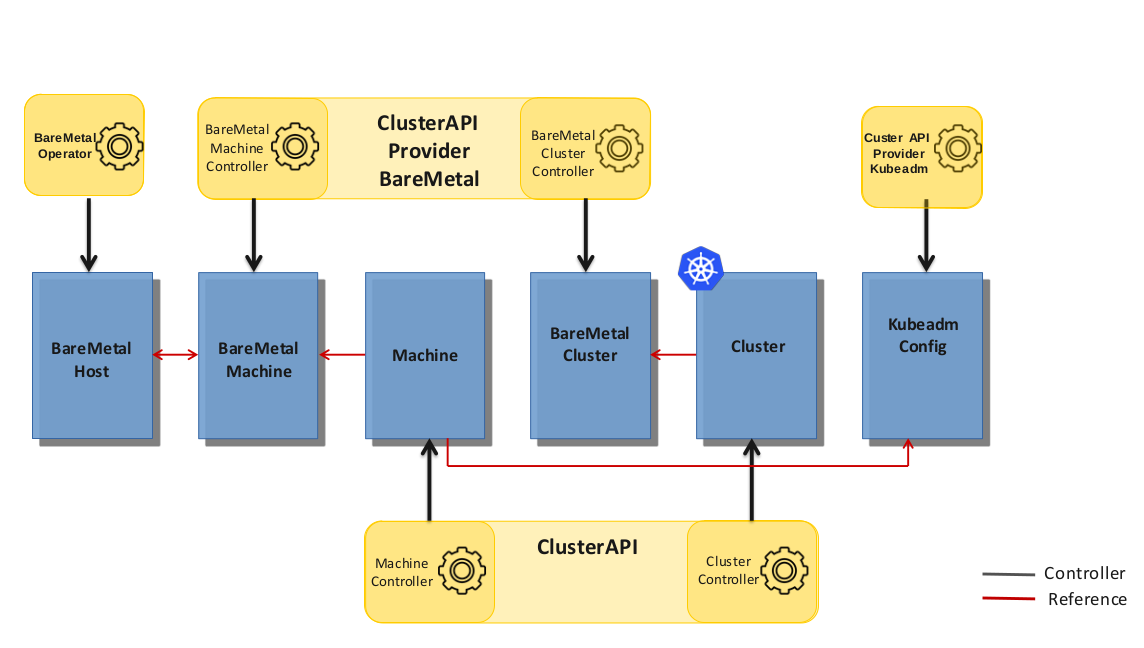
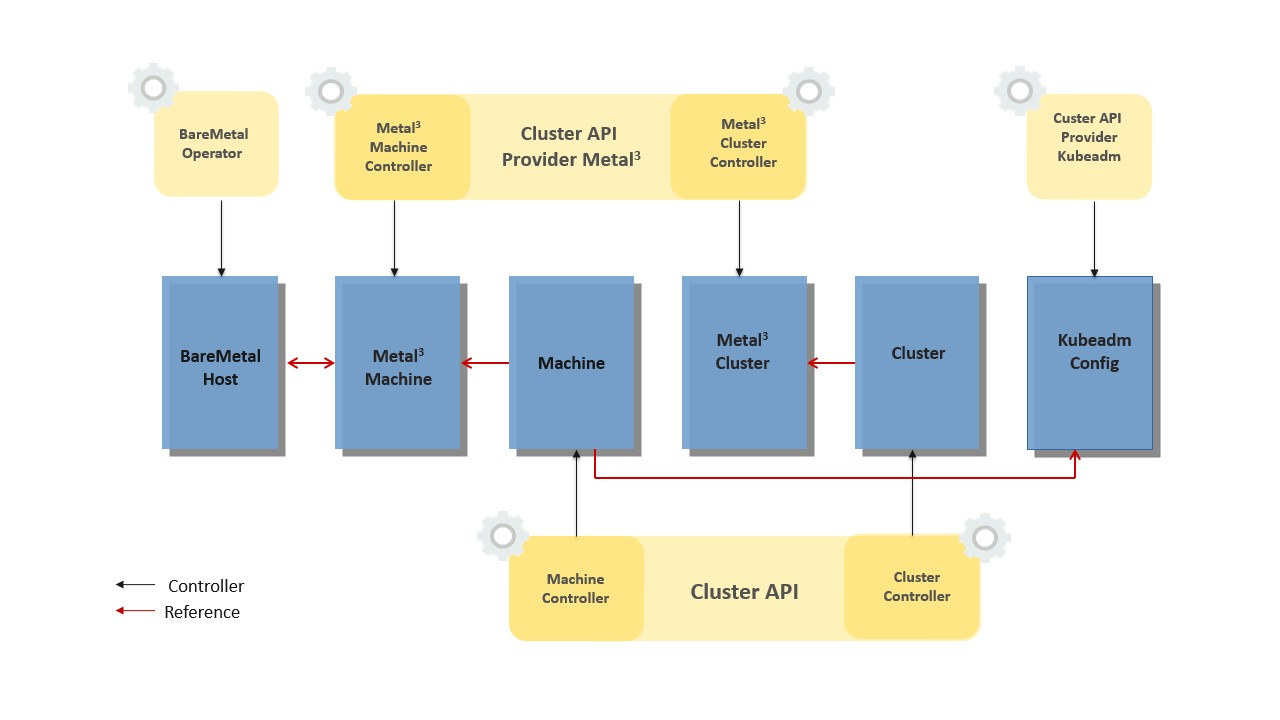
Fixes with naming in documentations

diff --git a/docs/getting-started.md b/docs/getting-started.md
@@ -1,4 +1,4 @@
-# Cluster API provider Bare Metal
+# Cluster API provider Metal³
 
 This provider integrates with the
 [Cluster API project](https://github.com/kubernetes-sigs/cluster-api).
